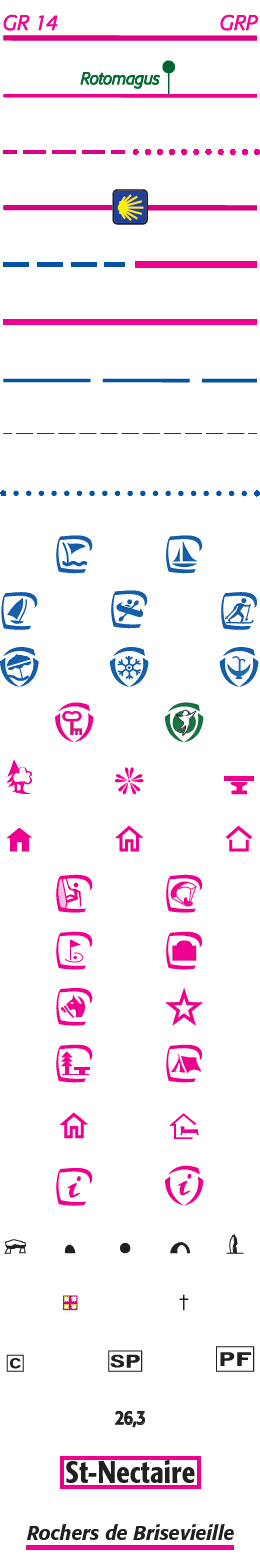
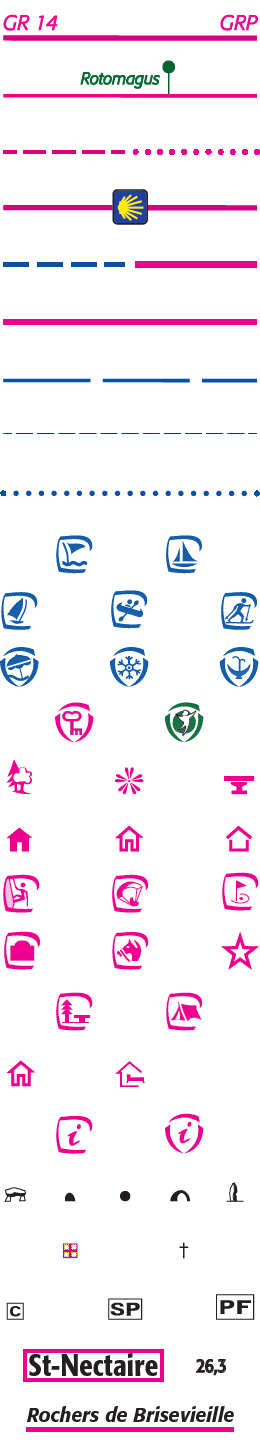
[ADD] Legend info

diff --git a/src/page/legend.html b/src/page/legend.html
@@ -105,11 +105,11 @@
     </li><li>
       Bassin, réservoir d’eau
     </li><li>
-      Château d’eau. Réservoir d’eau. Point d’eau
+      Château d’eau - Réservoir d’eau - <b><i>ravitaillement</i>Point d’eau</b>
     </li><li>
       Citerne, lavoir, station d’épuration, station de pompage
     </li><li>
-      Amer. Balise. Feu. Phare
+      Amer - Balise - Feu - Phare
     </li><li>
       Cascade
     </li><li>
@@ -125,9 +125,9 @@
   <img src="../img/legende/04-energie.png" />
   <ul>
     <li>
-      Ligne électrique. Pylône
+      Ligne électrique - Pylône
     </li><li>
-      Conduite d’hydrocarbure. Transport de matière première
+      Conduite d’hydrocarbure - Transport de matière première
     </li>
   </ul>
 </div>
@@ -171,21 +171,21 @@
     </li><li>
       Aérodrome avec piste en herbe
     </li><li>
-      Église. Chapelle. Mosquée. Synagogue. Autre culte
+      Église - <b><i>repos ?</i>Chapelle</b> - Mosquée - Synagogue - Autre culte
     </li><li>
       Cimetière : chrétien, israélite, musulman
     </li><li>
-      Clocher. Minaret
+      Clocher - Minaret
     </li><li>
-      Fort, blockhaus
+      <b><i>se reposer</i>Fort, blockhaus</b>
     </li><li>
       Monument : ponctuel, surfacique
     </li><li>
       Silos : ponctuel, surfacique. Moulin
     </li><li>
-      Arène - Serre
+      Arène - <b><i>ravitaillement ?</i>Serre</b>
     </li><li>
-      Antenne. Construction spéciale technique. Éolienne
+      Antenne - Construction spéciale technique - Éolienne
     </li><li>
       Réservoir : ponctuel, surfacique
     </li><li>
@@ -193,7 +193,7 @@
     </li><li>
       Piste de sport
     </li><li>
-      Bassin piscine - Ruines
+      Bassin piscine - <b><i>se reposer</i>Ruines<b>
     </li>
   </ul>
 </div>
@@ -207,9 +207,9 @@
     </li><li>
       Forêt : de feuillus, de conifères, mixte
     </li><li>
-      Forêt ouverte. Lande ligneuse
+      Forêt ouverte - Lande ligneuse
     </li><li>
-      Peupleraie. Verger
+      Peupleraie - <b><i>manger ?</i>Verger</b>
     </li><li>
       Vigne. Végétation aquatique
     </li><li>
@@ -227,7 +227,7 @@
     </li><li>
       Ligne descriptive en zone rocheuse
     </li><li>
-      Barre rocheuse isolée. Bloc rocheux isolé
+      Barre rocheuse isolée - Bloc rocheux isolé
     </li><li>
       Sérac, crevasse
     </li><li>
@@ -255,11 +255,11 @@
     </li><li>
       Courbe de cuvette
     </li><li>
-      Levée de terre. Talus
+      Levée de terre - Talus
     </li><li>
       Mur de soutènement
     </li><li>
-      Borne géodésique. Point coté
+      Borne géodésique - Point coté
     </li>
   </ul>
 </div>
@@ -271,14 +271,14 @@
     <li>
       Sentier de grande randonnée (GR), GR de pays (GRP)
     </li><li class="br">
-      Sentier de petite randonnée (PR). Sentier de découverte, 
-      <br/>parcours sportif. Poteau de balisage
+      Sentier de petite randonnée (PR) - Sentier de découverte, 
+      <br/>parcours sportif - Poteau de balisage
     </li><li>
-      Autre sentier. Passage délicat
+      Autre sentier - Passage délicat
     </li><li>
       Itinéraire de Saint-Jacques-de-Compostelle
     </li><li>
-      Itinéraire équestre. Train touristique
+      Itinéraire équestre - Train touristique
     </li><li>
       Voie verte
     </li><li>
@@ -288,39 +288,35 @@
     </li><li>
       Ski de randonnée en passage délicat
     </li><li>
-      Baignade surveillée. Port de plaisance
+      Baignade surveillée. <b><i>manger ?</i>Port de plaisance</b>
     </li><li>
-      Sports nautiques. Sports en eaux vives. Ski de fond
+      Sports nautiques - Sports en eaux vives - Ski de fond
     </li><li>
       Station : balnéaire, de sports d’hiver, thermale
     </li><li>
-      Ville d’art. Station verte
+      Ville d’art - Station verte
     </li><li>
-      Arbre remarquable. Point de vue. Table d’orientation
+      Arbre remarquable - <b><i>s'orienter !</i>Point de vue</b> - <b><i>s'orienter !</i>Table d’orientation</b>
     </li><li>
-      Refuge gardé ou gîte équestre. Refuge. Abri
+      Refuge gardé ou gîte équestre - <b><i>manger ? repos</i>Refuge - Abri</b>
     </li><li>
-      Site d’escalade. Site de vol libre
+      Site d’escalade - Site de vol libre - Golf
     </li><li>
-      Terrain de golf. Pelote basque
+      Pelote basque - Centre équestre - Curiosité
     </li><li>
-      Centre équestre. Édifice remarquable ou curiosité
+      <b><i>manger ?</i>Aire de détente</b> - <b><i>repos</i>Camping</b>
     </li><li>
-      Aire de détente. Camping
+      Auberge de jeunesse - <b><i>manger ? repos</i>Gîte d’étape</b>
     </li><li>
-      Auberge de jeunesse. Gîte d’étape
+      Office de tourisme - Information touristique
     </li><li>
-      Office de tourisme. Information touristique
+      Dolmen - Habitation troglodytique - Gouffre - <b><i>repos</i>Grotte</b> - Menhir
     </li><li>
-      Dolmen. Habitation troglodytique. Gouffre. Grotte. Menhir
-    </li><li>
-      Hôpital. Croix, calvaire
+      Hôpital - <b><i>s'orienter ?</i>Croix, calvaire</b> - <b><i>ravitaillement ?</i>Parking</b>
     </li><li>
       Chef-lieu de : commune, arrondissement, département
     </li><li>
-      Chiffre de population (en milliers d’habitants)
-    </li><li>
-      Station classée
+      Station classée - Population (en milliers d’habitants)
     </li><li>
       Site remarquable
     </li>

diff --git a/src/game.js b/src/game.js
@@ -3,9 +3,9 @@ import Feature from 'ol/Feature';
 import Point from 'ol/geom/Point';
 import { toLonLat } from 'ol/proj';
 import { getDistance } from 'ol/sphere';
-import VectorLayer from 'ol/layer/Vector';
 import element from 'ol-ext/util/element'
 import Gauge from 'ol-ext/control/Gauge'
+import 'ol-ext/render/Cspline'
 
 import pages from './page/pages'
 import map from './map/map';
@@ -15,7 +15,6 @@ import vectorLoader from './vectorLoader/vectorLoader';
 import layer, { layerCarte } from './map/layer'
 import routing from './map/routing';
 
-import { style as redStyle } from './map/layer'
 
 import vtlayer from './vectorLoader/vtMap'
 import mapInfo from './vectorLoader/mapInfo'
@@ -114,7 +113,7 @@ Game.prototype.getLife = function() {
 };
 
 /** Set current status
- * 
+ * Debug
  */
 Game.prototype.getStatus = function(road, land, bati) {
   const status = {
@@ -131,10 +130,12 @@ Game.prototype.getStatus = function(road, land, bati) {
   return status;
 }
 
-/** Load a new game in region
+/** Load a new game 
  * @param {string} region region id
+ * @param {number} length travel length (in meter)
+ * @param {number} month
  */
-Game.prototype.load = function(region, length) {
+Game.prototype.load = function(region, length, month) {
   vectorLoader.loadGame(region, length, g => {
     for (let i in g) this.set(i, g[i]);
     this.set('position', this.get('start'));
@@ -167,6 +168,11 @@ Game.prototype.load = function(region, length) {
 
     vectorLoader.getRouting(g.start, g.end, result => {
       layer.getSource().addFeature(result.feature);
+      const feature = result.feature.clone();
+      feature.set('style', 'travel');
+      const l = feature.getGeometry().getLength();
+      feature.setGeometry(feature.getGeometry().simplify(l/20).cspline({ pointsPerSeg: l/100 }));
+      layerCarte.getSource().addFeature(feature);
       status['distance'] = (result.distance/1000).toFixed(1)+' km';
       const h = Math.floor(result.duration / 60)
       status['temps estimé'] = h+'h'+('0'+Math.floor(result.duration-h*60)).substr(-2);

diff --git a/src/page/intro.js b/src/page/intro.js
@@ -9,7 +9,7 @@ import regions from '../vectorLoader/regions'
 import intro from './intro.html'
 import './intro.css'
 
-// Show g intro
+// Show intro dialog
 dialog.show({
   content: intro,
   className: 'intro',
@@ -20,13 +20,13 @@ const region = dialog.getContentElement().querySelector('.region');
 const length = dialog.getContentElement().querySelector('.length');
 const month = dialog.getContentElement().querySelector('.month');
 
-// region.addEventListener('change', () => dialog.close());
-// Add option
+// Add regions option
 regions.forEach((f, i) => {
   element.create('OPTION', { text: f.get('nom'), value: i, parent: region });
 });
 region.value = Math.floor(Math.random() * regions.length);
 
+// Add season month
 const deft = Math.floor(Math.random()*6) + 4;
 for (let m=1; m<=12; m++) {
   const o = element.create('OPTION', {
@@ -35,7 +35,7 @@ for (let m=1; m<=12; m++) {
     parent: month
   });
   if (m===deft) o.setAttribute('selected', 'selected');
-  // spring - summer
+  // Only spring - summer (no meteo)
   if (m < 4 || m > 9) {
     o.setAttribute('disabled', 'disabled');
   }

diff --git a/src/page/legend.css b/src/page/legend.css
@@ -12,6 +12,44 @@
   margin: 0;
 }
 
+.legendDialog b:before {
+  content: "";
+  position: absolute;
+  background-image: url(../img/highlight.png);
+  background-size: cover;
+  background-repeat: no-repeat;
+  mix-blend-mode: multiply;
+  top:0;
+  left: -1em;
+  bottom: 0;
+  right: -1em;
+  border-radius: 1em;
+}
+.legendDialog b {
+  position: relative;
+  display: inline-block;
+  font-weight: normal;
+  cursor: pointer;
+}
+.legendDialog b i {
+  display: none;
+  font-family: cursive;
+  font-style: normal;
+  color: #a00;
+  background-color: rgba(255,255,255,.2);
+  text-shadow: 1px 1px #fff, 1px -1px #fff, -1px -1px #fff, -1px 1px #fff;
+  font-size: 1.1em;
+  position: absolute;
+  top: -1.5em;
+  left: 80%;
+  transform: rotate(-5deg) translateX(-50%);
+  transform-origin: 0 0;
+  pointer-events: none;
+}
+.legendDialog b:hover i {
+  display: block;
+}
+
 .legendDialog img {
   width: 150px;
   float: left;

diff --git a/src/map/layer.js b/src/map/layer.js
@@ -97,6 +97,15 @@ function styleFn(f, res) {
         zIndex: 1
       })
     }
+    case 'travel': {
+      return new Style({
+        stroke: new Stroke({
+          color: [255,0,0,.5],
+          width: 100 / res,
+          lineCap: 'square'
+        })
+      })
+    }
     default: return style;
   }
 }
